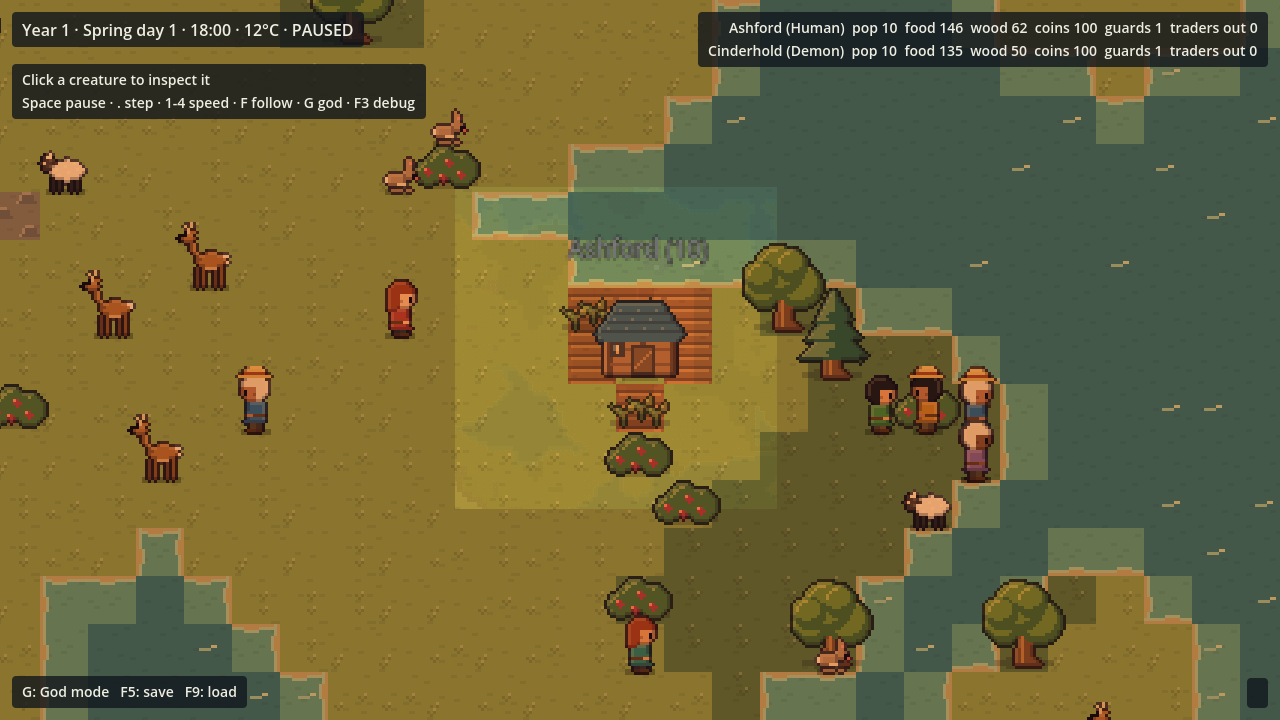
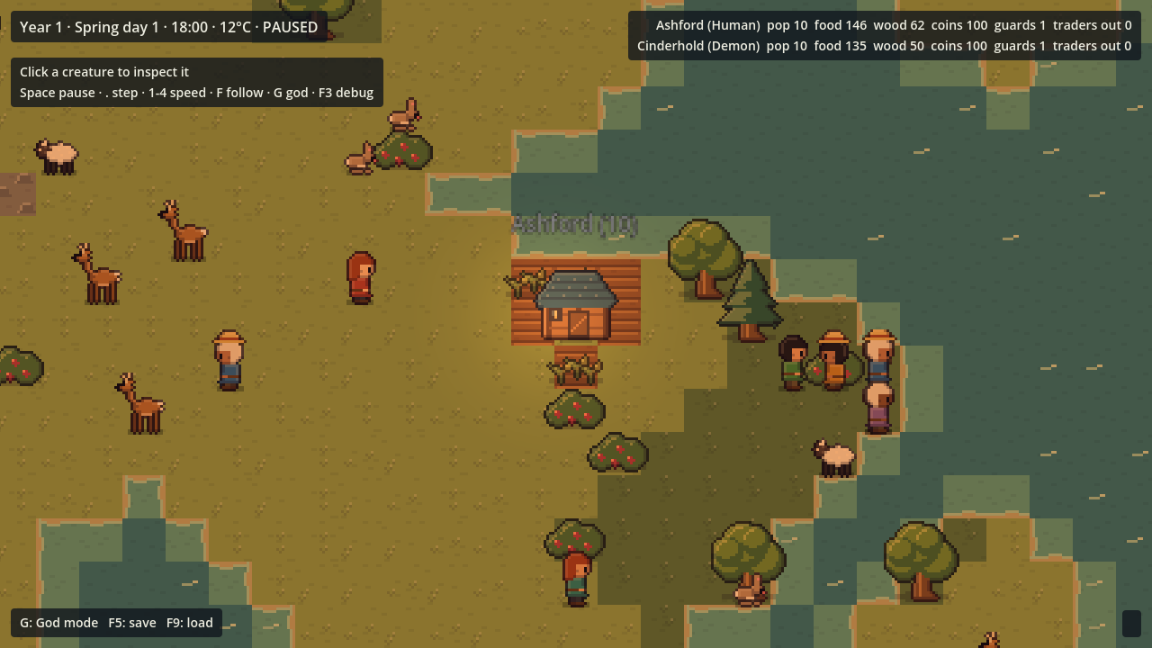
feat(T018-mood): finish lighting pass (falloff fix, comments, handoff, evidence)
Takeover of Codex's uncommitted T018-mood work after it hit its usage limit.

diff --git a/docs/handoffs/T018-mood.md b/docs/handoffs/T018-mood.md
@@ -1,1 +1,37 @@
-T018-mood | Codex | feat/T018-mood | IN_PROGRESS | DayNightTint, Lighting scripts, shader, Main scene additions, MoodAcceptance, handoff evidence, PROGRESS entry | base 88a6cf8
+# T018-mood handoff — Warm light, town lamps, tilt-shift
+
+| Field | Value |
+|---|---|
+| Task | T018-mood (owner request: warm "pixel diorama" mood, `docs/prompts/chatgpt-round2.md` prompt 4) |
+| Agents | Codex (implementation, claim `8ff5ec3`; stopped at its usage limit with the work uncommitted) → Claude Code (takeover: review, fix, tests, merge) |
+| Branch | `feat/T018-mood` (Codex's local checkout `F:\Code\game-dev\worktrees\T018-mood-codex`) |
+| State | DONE — merged to main |
+| Files | `Game/Presentation/DayNightTint.cs`, `LightingTowns.cs`, `LightingFocus.cs`, `Shaders/tilt_shift.gdshader`, `Main.tscn` (new nodes only), `Game/Tests/MoodAcceptance.*` |
+
+## What changed
+- **Day/night palette** (`DayNightTint`): deep blue night, rose then gold/copper at dawn and dusk, warm near-white noon. It follows the simulation clock only.
+- **Town lamps** (`LightingTowns`):
+  - one warm additive `PointLight2D` per town at its store, with a lit window pixel
+  - strength comes from `DayNightTint.LampStrength`: off by day, fading in through dusk
+  - lamps are created and removed from `bridge.Settlements()` (God founding, load / world generation); no per-entity nodes
+- **Tilt-shift** (`LightingFocus` + `tilt_shift.gdshader`): a screen-space blur of the top and bottom bands, on a CanvasLayer below the UI. **F4** toggles it; **off by default** until the owner decides.
+- **Glow/bloom: not added.** The project uses the `gl_compatibility` renderer. 2D glow through WorldEnvironment was not verified there, and changing the renderer needs the owner's decision, so the lamps use an additive light texture instead.
+
+## Takeover review (Claude Code)
+- Codex's work was complete apart from the commit, handoff and one visual bug. In the dusk frame each lamp showed as a **hard-edged rectangle**: additive lights use the texture colour, and the falloff ended at zero alpha but still orange. The falloff now ramps to black.
+- Restored the presentation-only header comments, added class comments, and made a failure print `MOOD_ACCEPTANCE_FAIL`.
+- Merged the current main into the branch before testing; no conflicts.
+
+## Evidence (2026-11-25, merged branch)
+- `dotnet build Game/Game.csproj -c Debug`: 0 errors.
+- Godot headless: `T007_ACCEPTANCE_PASS`, `T008_ACCEPTANCE_PASS`, `GODTOOLS_ACCEPTANCE_PASS`, `SETTLEMENT_ACCEPTANCE_PASS`, `EFFECTS_ACCEPTANCE_PASS`, `MOOD_ACCEPTANCE_PASS`. Mood checks: one lit lamp per town at night, F4 toggles tilt-shift on and off, lamps off and the world bright at noon.
+- Frames (movie writer, 1280×720):
+  - `docs/handoffs/T018-mood-night.png`: Ashford store lamp pool at 00:11
+  - `docs/handoffs/T018-mood-dusk.png`: 18:00 gold light with a soft lamp glow and no box
+  - `docs/handoffs/T018-mood-before.png`: Codex's before frame
+- The simulation is untouched.
+
+## Open
+- The tilt-shift look was not captured in a frame (it starts off); the owner should try **F4** and say whether to keep it, make it the default, or remove it.
+- FPS was not measured before/after (only 2 lights and one optional full-screen pass were added). Check with F3 at full zoom-out during the playtest.
+- Glow needs either verified Compatibility support or a renderer switch (owner decision).
